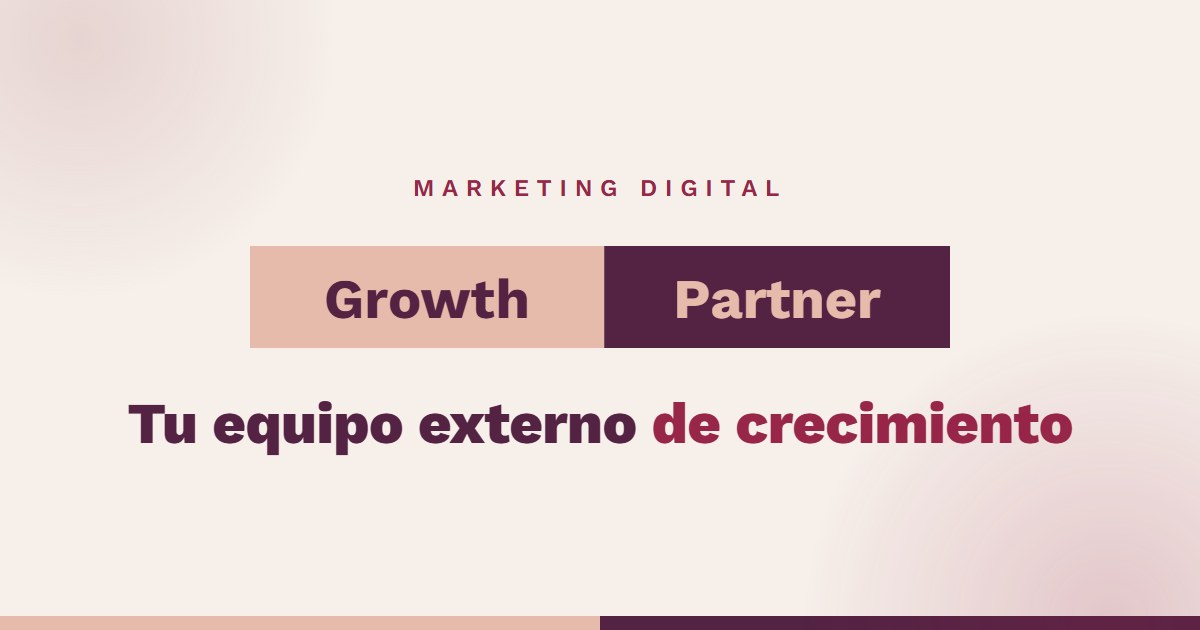
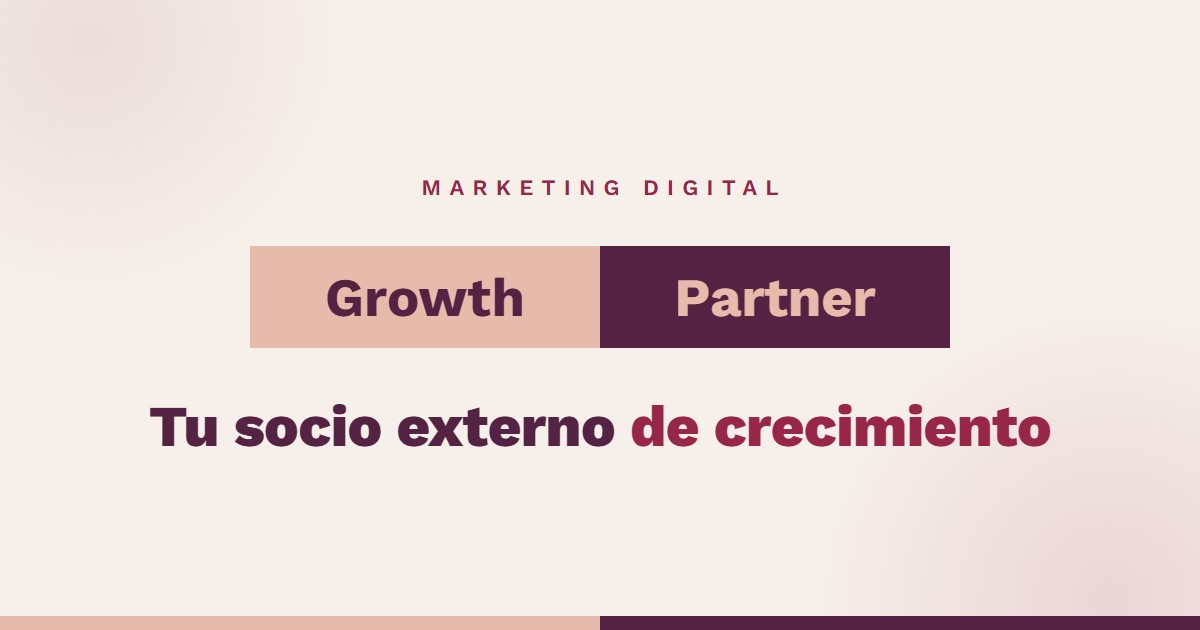
Change the tagline to "Tu socio externo de crecimiento"
Hero title, footer taglines, share-image alt text and the share image itself
now say "socio" instead of "equipo" on every page.

diff --git a/index.html b/index.html
@@ -18,7 +18,7 @@
 <meta property="og:image" content="https://growthpartner.example/assets/img/og-image.jpg">
 <meta property="og:image:width" content="1200">
 <meta property="og:image:height" content="630">
-<meta property="og:image:alt" content="Growth Partner, marketing digital: tu equipo externo de crecimiento">
+<meta property="og:image:alt" content="Growth Partner, marketing digital: tu socio externo de crecimiento">
 <meta name="twitter:card" content="summary_large_image">
 <link rel="preload" href="assets/fonts/Work_Sans/WorkSans-VariableFont_wght.ttf" as="font" type="font/ttf" crossorigin>
 <link rel="stylesheet" href="assets/css/style.css">
@@ -69,7 +69,7 @@
       <div class="hero__texture" aria-hidden="true"></div>
       <div class="container hero__inner">
         <p class="eyebrow eyebrow--center reveal">MARKETING DIGITAL</p>
-        <h1 class="hero__title reveal">Tu equipo externo<br><span class="hero__title-highlight">de crecimiento</span></h1>
+        <h1 class="hero__title reveal">Tu socio externo<br><span class="hero__title-highlight">de crecimiento</span></h1>
       </div>
       <div class="hero__actions reveal">
         <a href="#contacto" class="btn btn--primary">Hablemos de tu negocio</a>
@@ -299,7 +299,7 @@
           <span class="logo__word logo__word--partner">Partner</span>
         </span>
       </div>
-      <p class="footer__tagline">Tu equipo externo de crecimiento</p>
+      <p class="footer__tagline">Tu socio externo de crecimiento</p>
     </div>
     <nav class="footer__nav">
       <a href="#inicio">Inicio</a>

diff --git a/servicios/estrategia-digital.html b/servicios/estrategia-digital.html
@@ -18,7 +18,7 @@
 <meta property="og:image" content="https://growthpartner.example/assets/img/og-image.jpg">
 <meta property="og:image:width" content="1200">
 <meta property="og:image:height" content="630">
-<meta property="og:image:alt" content="Growth Partner, marketing digital: tu equipo externo de crecimiento">
+<meta property="og:image:alt" content="Growth Partner, marketing digital: tu socio externo de crecimiento">
 <meta name="twitter:card" content="summary_large_image">
 <link rel="preload" href="../assets/fonts/Work_Sans/WorkSans-VariableFont_wght.ttf" as="font" type="font/ttf" crossorigin>
 <link rel="stylesheet" href="../assets/css/style.css">
@@ -227,7 +227,7 @@
           <span class="logo__word logo__word--partner">Partner</span>
         </span>
       </div>
-      <p class="footer__tagline">Tu equipo externo de crecimiento</p>
+      <p class="footer__tagline">Tu socio externo de crecimiento</p>
     </div>
     <nav class="footer__nav">
       <a href="../index.html#inicio">Inicio</a>

diff --git a/servicios/estrategia-marca.html b/servicios/estrategia-marca.html
@@ -18,7 +18,7 @@
 <meta property="og:image" content="https://growthpartner.example/assets/img/og-image.jpg">
 <meta property="og:image:width" content="1200">
 <meta property="og:image:height" content="630">
-<meta property="og:image:alt" content="Growth Partner, marketing digital: tu equipo externo de crecimiento">
+<meta property="og:image:alt" content="Growth Partner, marketing digital: tu socio externo de crecimiento">
 <meta name="twitter:card" content="summary_large_image">
 <link rel="preload" href="../assets/fonts/Work_Sans/WorkSans-VariableFont_wght.ttf" as="font" type="font/ttf" crossorigin>
 <link rel="stylesheet" href="../assets/css/style.css">
@@ -222,7 +222,7 @@
           <span class="logo__word logo__word--partner">Partner</span>
         </span>
       </div>
-      <p class="footer__tagline">Tu equipo externo de crecimiento</p>
+      <p class="footer__tagline">Tu socio externo de crecimiento</p>
     </div>
     <nav class="footer__nav">
       <a href="../index.html#inicio">Inicio</a>

diff --git a/servicios/produccion-contenido.html b/servicios/produccion-contenido.html
@@ -18,7 +18,7 @@
 <meta property="og:image" content="https://growthpartner.example/assets/img/og-image.jpg">
 <meta property="og:image:width" content="1200">
 <meta property="og:image:height" content="630">
-<meta property="og:image:alt" content="Growth Partner, marketing digital: tu equipo externo de crecimiento">
+<meta property="og:image:alt" content="Growth Partner, marketing digital: tu socio externo de crecimiento">
 <meta name="twitter:card" content="summary_large_image">
 <link rel="preload" href="../assets/fonts/Work_Sans/WorkSans-VariableFont_wght.ttf" as="font" type="font/ttf" crossorigin>
 <link rel="stylesheet" href="../assets/css/style.css">
@@ -223,7 +223,7 @@
           <span class="logo__word logo__word--partner">Partner</span>
         </span>
       </div>
-      <p class="footer__tagline">Tu equipo externo de crecimiento</p>
+      <p class="footer__tagline">Tu socio externo de crecimiento</p>
     </div>
     <nav class="footer__nav">
       <a href="../index.html#inicio">Inicio</a>

diff --git a/servicios/publicidad.html b/servicios/publicidad.html
@@ -18,7 +18,7 @@
 <meta property="og:image" content="https://growthpartner.example/assets/img/og-image.jpg">
 <meta property="og:image:width" content="1200">
 <meta property="og:image:height" content="630">
-<meta property="og:image:alt" content="Growth Partner, marketing digital: tu equipo externo de crecimiento">
+<meta property="og:image:alt" content="Growth Partner, marketing digital: tu socio externo de crecimiento">
 <meta name="twitter:card" content="summary_large_image">
 <link rel="preload" href="../assets/fonts/Work_Sans/WorkSans-VariableFont_wght.ttf" as="font" type="font/ttf" crossorigin>
 <link rel="stylesheet" href="../assets/css/style.css">
@@ -224,7 +224,7 @@
           <span class="logo__word logo__word--partner">Partner</span>
         </span>
       </div>
-      <p class="footer__tagline">Tu equipo externo de crecimiento</p>
+      <p class="footer__tagline">Tu socio externo de crecimiento</p>
     </div>
     <nav class="footer__nav">
       <a href="../index.html#inicio">Inicio</a>

diff --git a/servicios/redes-sociales.html b/servicios/redes-sociales.html
@@ -18,7 +18,7 @@
 <meta property="og:image" content="https://growthpartner.example/assets/img/og-image.jpg">
 <meta property="og:image:width" content="1200">
 <meta property="og:image:height" content="630">
-<meta property="og:image:alt" content="Growth Partner, marketing digital: tu equipo externo de crecimiento">
+<meta property="og:image:alt" content="Growth Partner, marketing digital: tu socio externo de crecimiento">
 <meta name="twitter:card" content="summary_large_image">
 <link rel="preload" href="../assets/fonts/Work_Sans/WorkSans-VariableFont_wght.ttf" as="font" type="font/ttf" crossorigin>
 <link rel="stylesheet" href="../assets/css/style.css">
@@ -226,7 +226,7 @@
           <span class="logo__word logo__word--partner">Partner</span>
         </span>
       </div>
-      <p class="footer__tagline">Tu equipo externo de crecimiento</p>
+      <p class="footer__tagline">Tu socio externo de crecimiento</p>
     </div>
     <nav class="footer__nav">
       <a href="../index.html#inicio">Inicio</a>

diff --git a/nosotros.html b/nosotros.html
@@ -18,7 +18,7 @@
 <meta property="og:image" content="https://growthpartner.example/assets/img/og-image.jpg">
 <meta property="og:image:width" content="1200">
 <meta property="og:image:height" content="630">
-<meta property="og:image:alt" content="Growth Partner, marketing digital: tu equipo externo de crecimiento">
+<meta property="og:image:alt" content="Growth Partner, marketing digital: tu socio externo de crecimiento">
 <meta name="twitter:card" content="summary_large_image">
 <link rel="preload" href="assets/fonts/Work_Sans/WorkSans-VariableFont_wght.ttf" as="font" type="font/ttf" crossorigin>
 <link rel="stylesheet" href="assets/css/style.css">
@@ -210,7 +210,7 @@
           <span class="logo__word logo__word--partner">Partner</span>
         </span>
       </div>
-      <p class="footer__tagline">Tu equipo externo de crecimiento</p>
+      <p class="footer__tagline">Tu socio externo de crecimiento</p>
     </div>
     <nav class="footer__nav">
       <a href="index.html#inicio">Inicio</a>

diff --git a/404.html b/404.html
@@ -121,7 +121,7 @@
           <span class="logo__word logo__word--partner">Partner</span>
         </span>
       </div>
-      <p class="footer__tagline">Tu equipo externo de crecimiento</p>
+      <p class="footer__tagline">Tu socio externo de crecimiento</p>
     </div>
     <nav class="footer__nav">
       <a href="/#inicio">Inicio</a>
